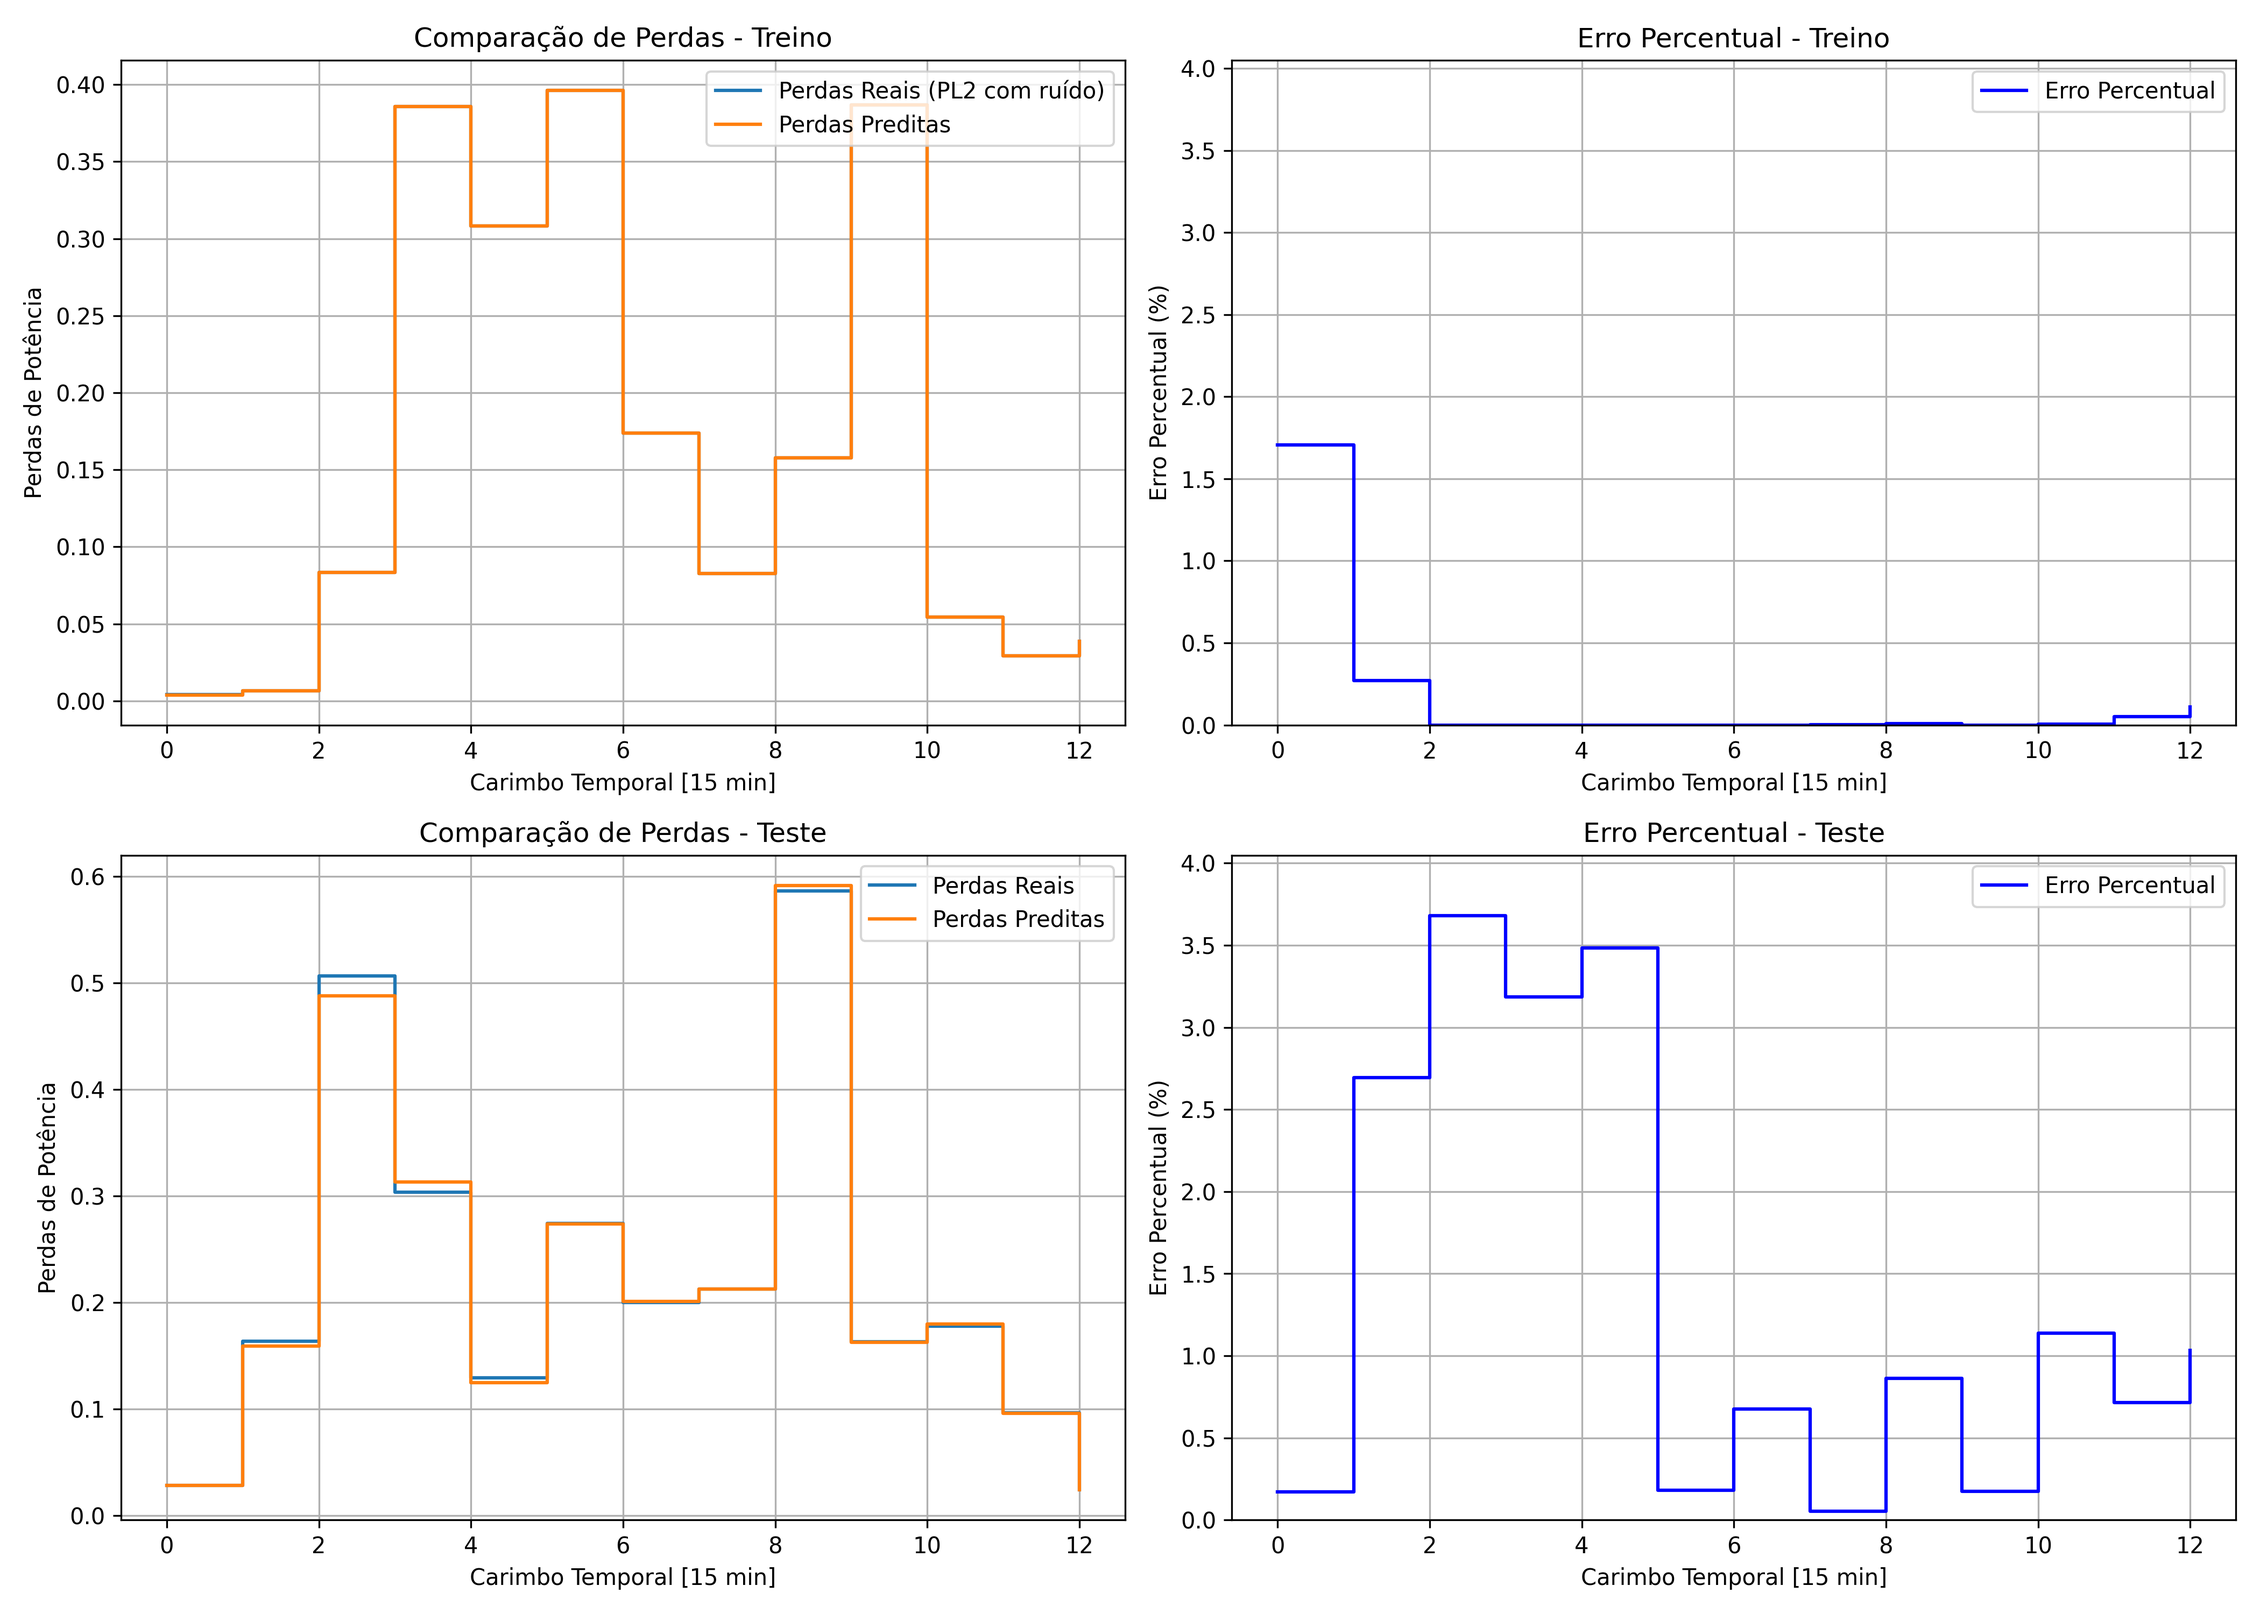
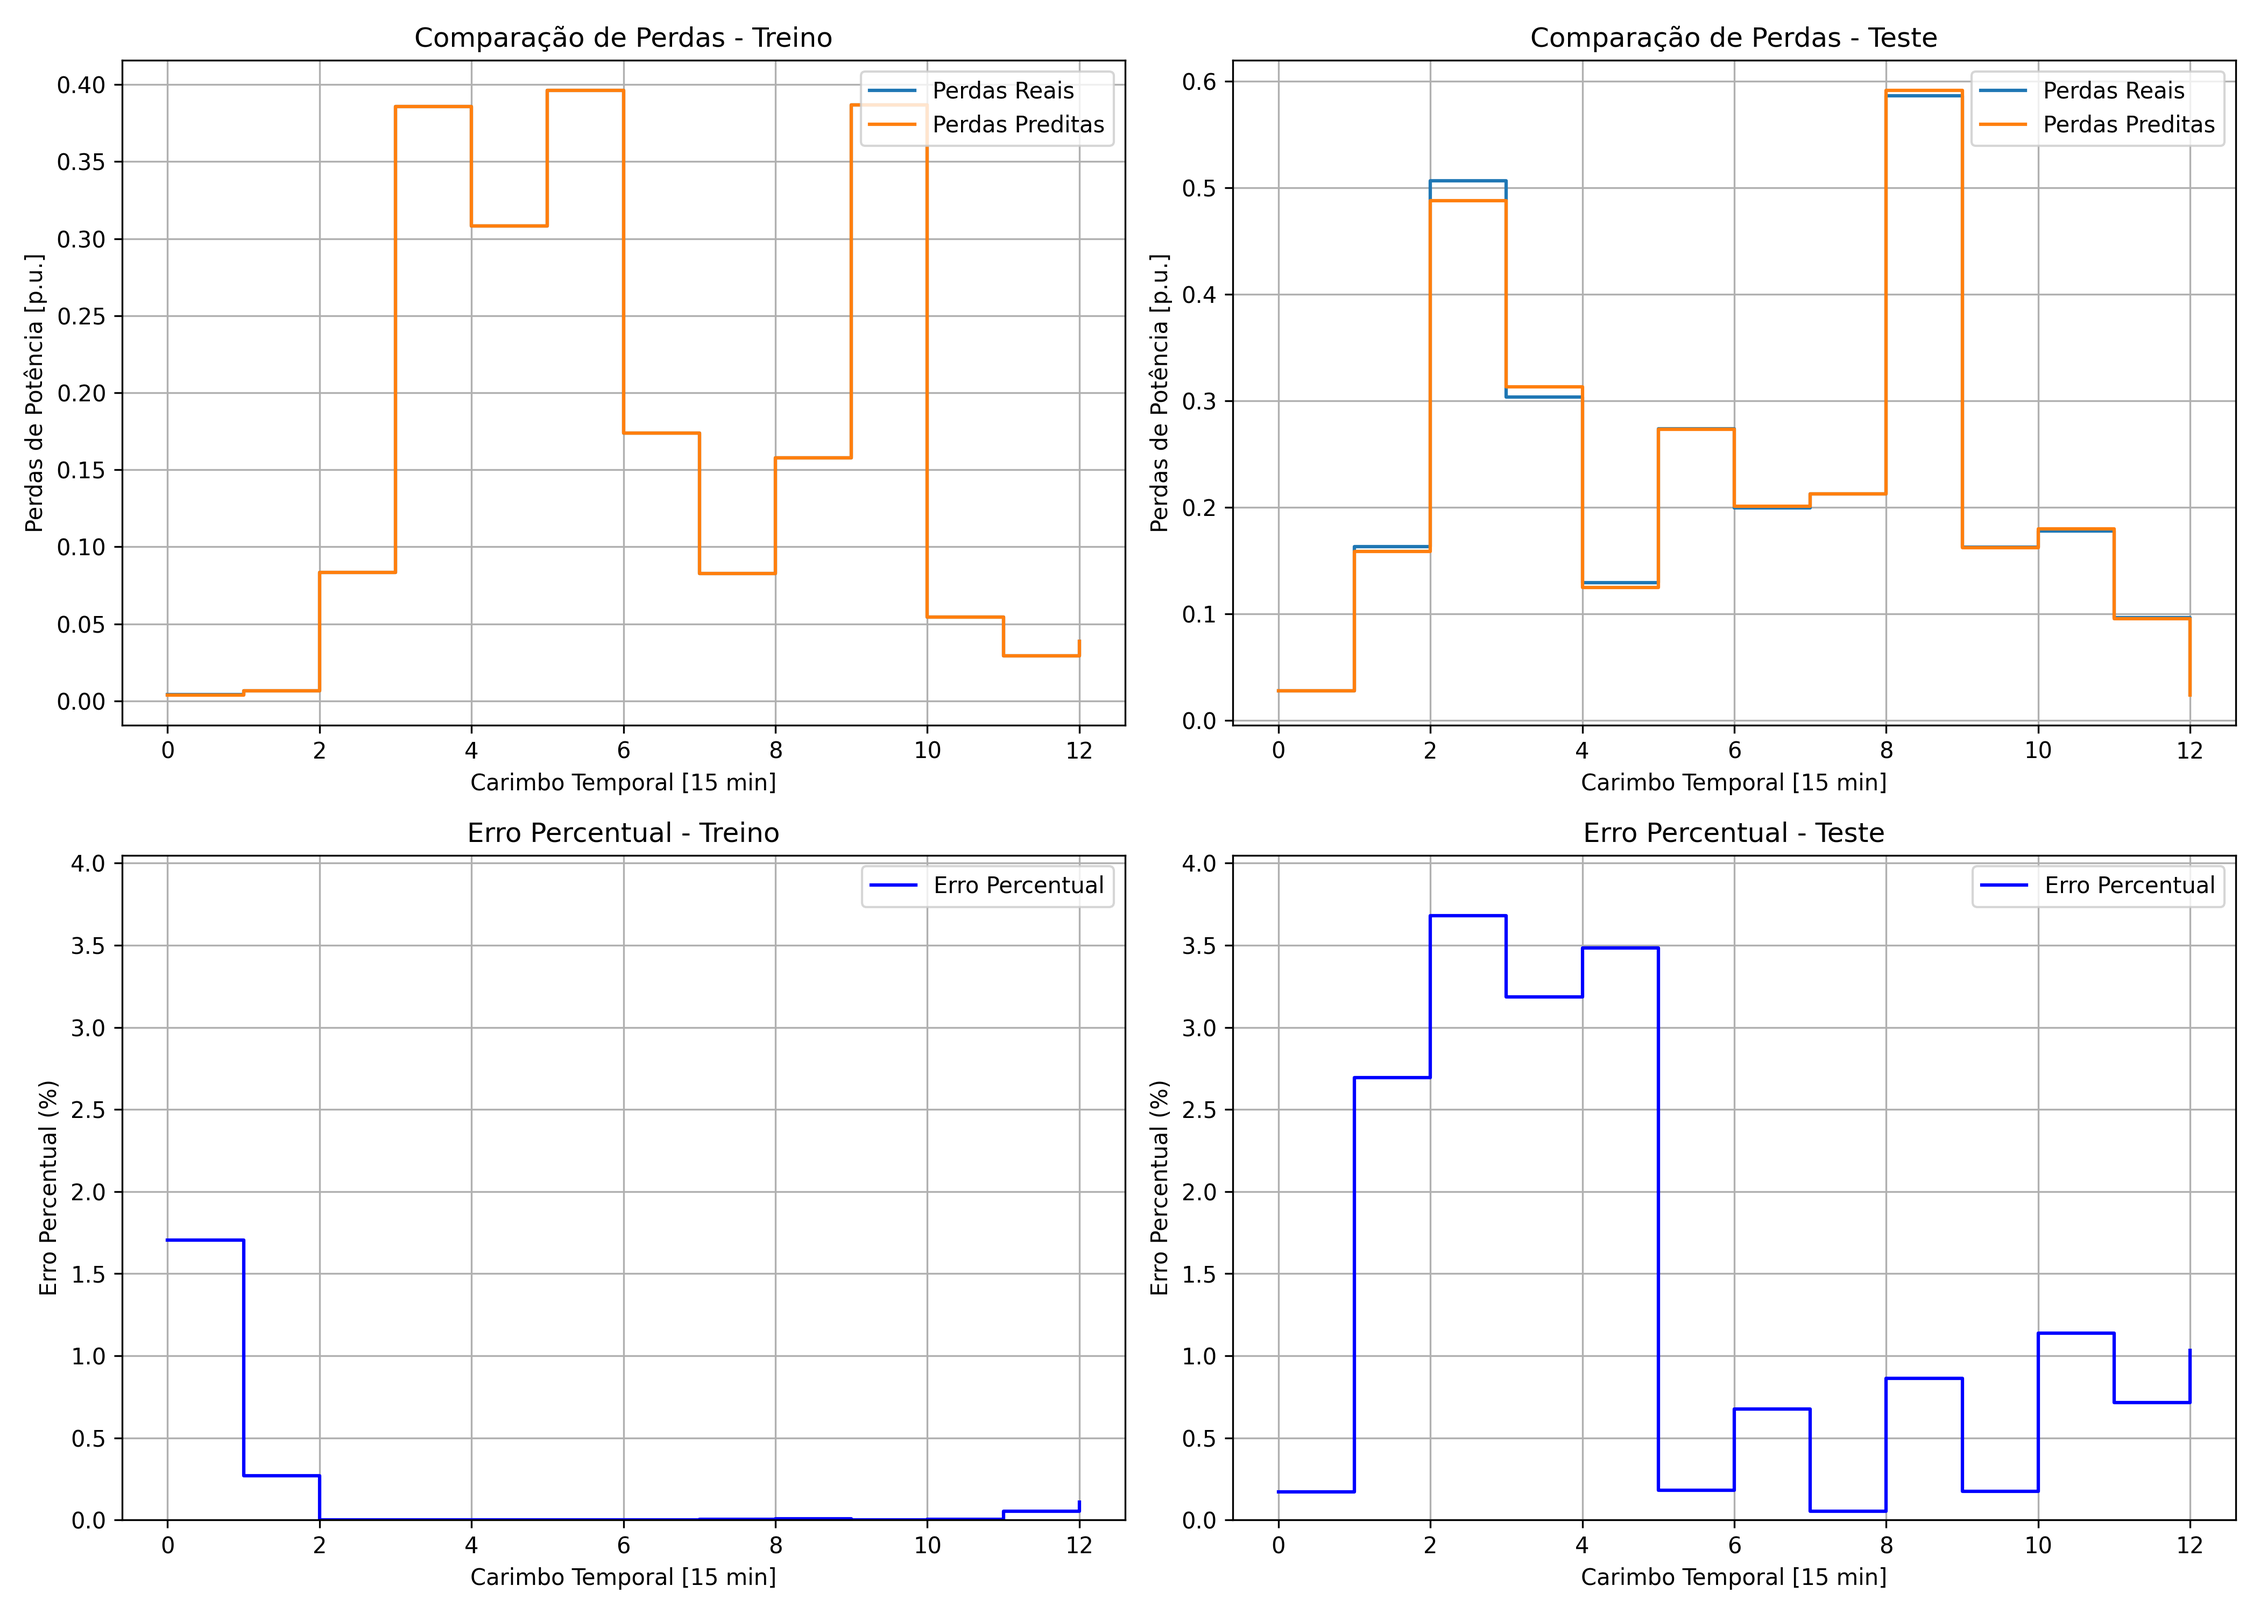
SCDTR Advancments

diff --git a/1 - Data Analitics for Smart Grids/Lab 2/Lab2.py b/1 - Data Analitics for Smart Grids/Lab 2/Lab2.py
@@ -209,30 +209,30 @@ def run_original_model():
     fig, ax = plt.subplots(nrows=2, ncols=2, figsize=(14, 10))
     
     # Top-left: Training data comparison
-    ax[0, 0].step(time_intervals_train, PL2_train_true, where='post', label='Perdas Reais (PL2 com ruído)')
+    ax[0, 0].step(time_intervals_train, PL2_train_true, where='post', label='Perdas Reais')
     ax[0, 0].step(time_intervals_train, PL2_train_pred, where='post', label='Perdas Preditas')
     ax[0, 0].set_title('Comparação de Perdas - Treino')
     ax[0, 0].set_xlabel('Carimbo Temporal [15 min]')
-    ax[0, 0].set_ylabel('Perdas de Potência')
+    ax[0, 0].set_ylabel('Perdas de Potência [p.u.]')
     ax[0, 0].legend(loc='upper right')
     ax[0, 0].grid(True)
     
     # Top-right: Training error
-    ax[0, 1].step(time_intervals_train, train_errors , where='post', label='Erro Percentual', color='blue')
-    ax[0, 1].set_title('Erro Percentual - Treino')
-    ax[0, 1].set_xlabel('Carimbo Temporal [15 min]')
-    ax[0, 1].set_ylabel('Erro Percentual (%)')
-    ax[0, 1].legend(loc='upper right')
-    ax[0, 1].grid(True)
-    
-    # Bottom-left: Test data comparison
-    ax[1, 0].step(time_intervals_test, PL2_test_true, where='post', label='Perdas Reais')
-    ax[1, 0].step(time_intervals_test, PL2_test_pred, where='post', label='Perdas Preditas')
-    ax[1, 0].set_title('Comparação de Perdas - Teste')
+    ax[1, 0].step(time_intervals_train, train_errors , where='post', label='Erro Percentual', color='blue')
+    ax[1, 0].set_title('Erro Percentual - Treino')
     ax[1, 0].set_xlabel('Carimbo Temporal [15 min]')
-    ax[1, 0].set_ylabel('Perdas de Potência')
+    ax[1, 0].set_ylabel('Erro Percentual (%)')
     ax[1, 0].legend(loc='upper right')
     ax[1, 0].grid(True)
+    
+    # Bottom-left: Test data comparison
+    ax[0, 1].step(time_intervals_test, PL2_test_true, where='post', label='Perdas Reais')
+    ax[0, 1].step(time_intervals_test, PL2_test_pred, where='post', label='Perdas Preditas')
+    ax[0, 1].set_title('Comparação de Perdas - Teste')
+    ax[0, 1].set_xlabel('Carimbo Temporal [15 min]')
+    ax[0, 1].set_ylabel('Perdas de Potência [p.u.]')
+    ax[0, 1].legend(loc='upper right')
+    ax[0, 1].grid(True)
     
     # Bottom-right: Test error
     ax[1, 1].step(time_intervals_test, test_errors, where='post', label='Erro Percentual', color='blue')
@@ -246,7 +246,7 @@ def run_original_model():
     y_max_error_pct = max(np.max(train_errors), np.max(test_errors))
     y_margin_error_pct = 0.1 * y_max_error_pct
     
-    ax[0, 1].set_ylim(0, y_max_error_pct + y_margin_error_pct)
+    ax[1, 0].set_ylim(0, y_max_error_pct + y_margin_error_pct)
     ax[1, 1].set_ylim(0, y_max_error_pct + y_margin_error_pct)
     
     plt.tight_layout()
